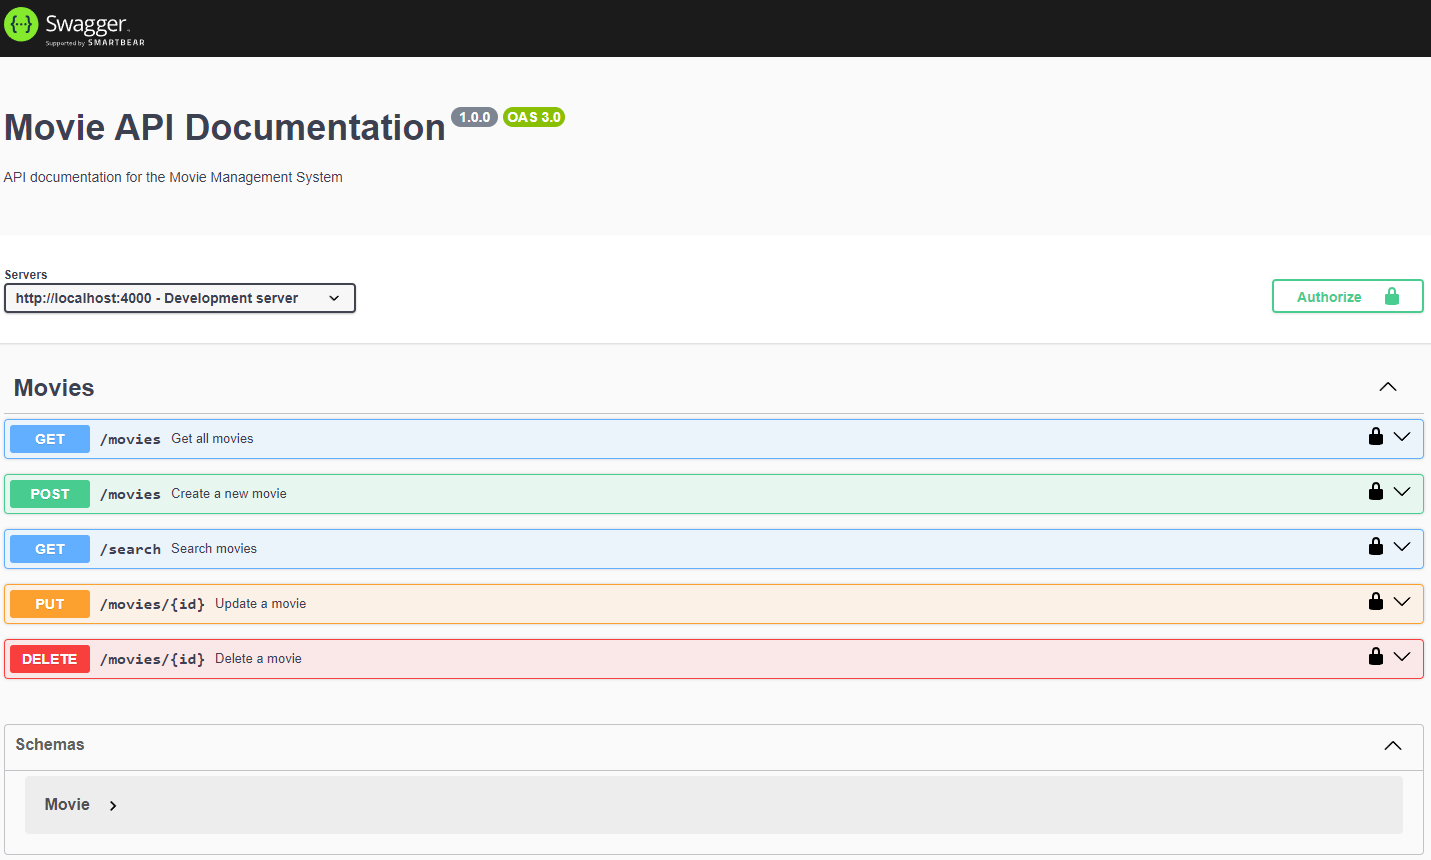
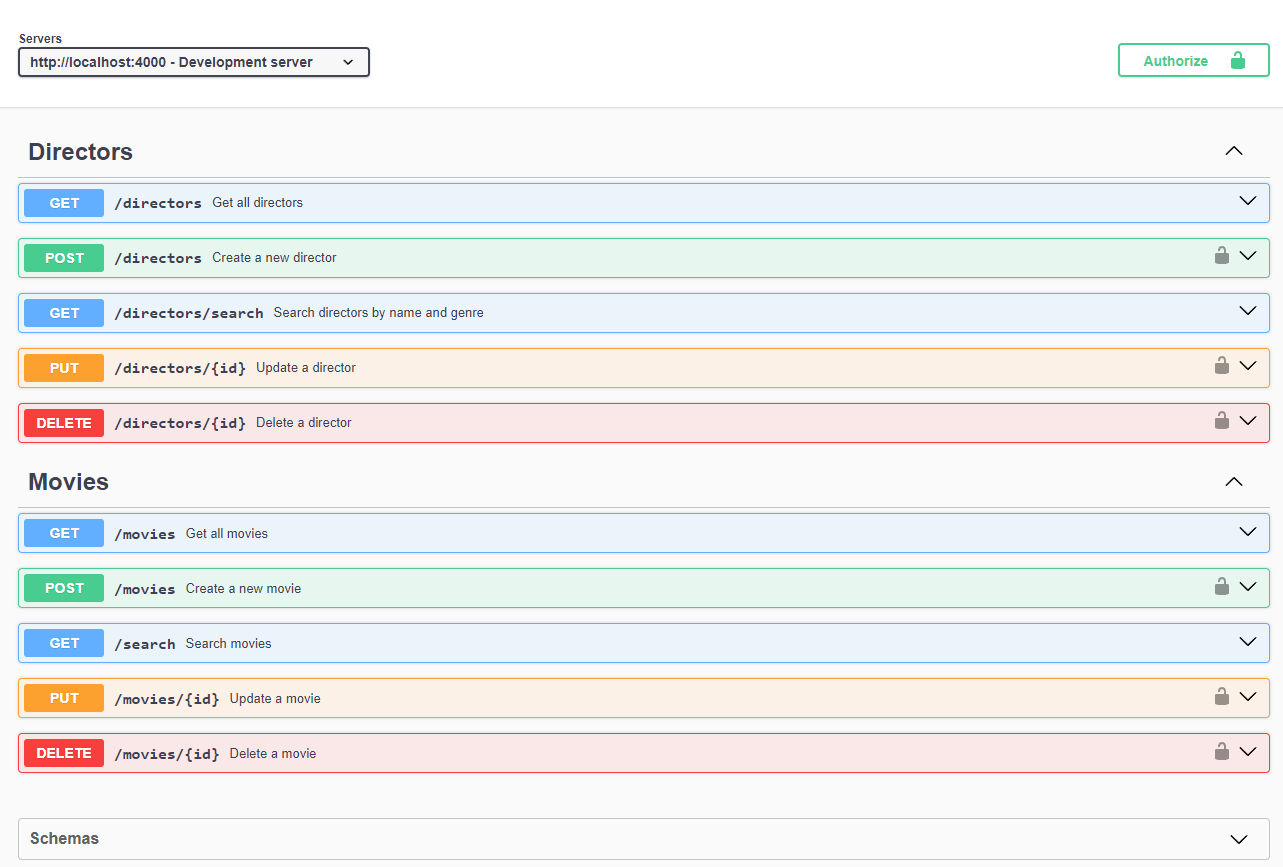
Updated Test config and README.md

diff --git a/tests/setup.ts b/tests/setup.ts
@@ -5,6 +5,17 @@ import redis from '../src/config/redis'
 
 let server: http.Server
 
+// Suppress console logs during tests
+beforeAll(() => {
+  jest.spyOn(console, 'log').mockImplementation(() => { })
+  jest.spyOn(console, 'error').mockImplementation(() => { })
+})
+
+// Restore console logs after tests
+afterAll(() => {
+  jest.restoreAllMocks()
+})
+
 export const setupTestServer = (port: number): Promise<http.Server> => {
   return new Promise((resolve) => {
     server = app.listen(port, () => {

diff --git a/jest.config.js b/jest.config.js
@@ -1,8 +1,16 @@
 module.exports = {
   preset: 'ts-jest',
   testEnvironment: 'node',
-  moduleFileExtensions: ['ts', 'js'],
-  transform: {
-    '^.+\\.(ts|tsx)$': 'ts-jest',
-  },
+  setupFilesAfterEnv: ['<rootDir>/tests/setup.ts'],
+  verbose: true,
+  // Only show test results summary
+  silent: true,
+  // Show test results in a more compact format
+  reporters: [
+    'default',
+    ['jest-summary-reporter', {
+      failuresOnly: false,
+      showPaths: false
+    }]
+  ]
 }; 

diff --git a/README.md b/README.md
@@ -6,8 +6,14 @@ A RESTful API for managing a movie lobby system. This API allows for creating, r
 
 - **Create Movie**: Add new movies to the database.
 - **Read Movies**: Retrieve a list of all movies.
+- **Search Movies**: Search movies by title or genre.
 - **Update Movie**: Modify existing movie details.
 - **Delete Movie**: Remove movies from the database.
+- **Create Director**: Add new directors to the database.
+- **Read Directors**: Retrieve a list of all directors.
+- **Search Directors**: Search directors by name and genre.
+- **Update Director**: Modify existing director details.
+- **Delete Director**: Remove directors from the database.
 - **Role-Based Access Control**: Only admin users can create, update, or delete movies.
 - **Caching**: Movies are cached in Redis for faster retrieval.
 - **Search**: Search movies by title or genre.
@@ -320,17 +326,33 @@ Returning cached movies
 #### Test Logs
 
 ```text
-Movie API
-    √ should create a new movie (3822 ms)                                                                                                                                                 
-    √ should get all movies (827 ms)                                                                                                                                                      
-    √ should update a movie (1195 ms)                                                                                                                                                     
-    √ should delete a movie (1041 ms)                                                                                                                                                     
-    √ should not allow non-admin to create a movie (271 ms)                                                                                                                               
-    √ should cache movie data in Redis (990 ms)                                                                                                                                           
-    √ should invalidate cache after movie deletion (1138 ms)                                                                                                                              
-      
-Test Suites: 1 passed, 1 total                                                                                                                                                            
-Tests:       7 passed, 7 total
+All tests passed                                                                                                                                                                                                                                          
+
+tests\director.test.ts
+  Director API
+    ✓ should create a new director
+    ✓ should get all directors
+    ✓ should search directors by name and genre
+    ✓ should update a director
+    ✓ should delete a director
+    ✓ should not allow non-admin to create a director
+    ✓ should create a director with movies and populate movies in get request
+    ✓ should cache director data in Redis
+    ✓ should invalidate cache after director update
+tests\movie.test.ts
+  Movie API
+    ✓ should create a new movie
+    ✓ should get all movies
+    ✓ should update a movie
+    ✓ should delete a movie
+    ✓ should not allow non-admin to create a movie
+    ✓ should cache movie data in Redis
+    ✓ should invalidate cache after movie deletion
+
+Test Suites: 2 passed, 2 total
+Tests:       16 passed, 16 total
+Snapshots:   0 total
+Time:        18.317 s
 ```
 
 ## Technologies Used
